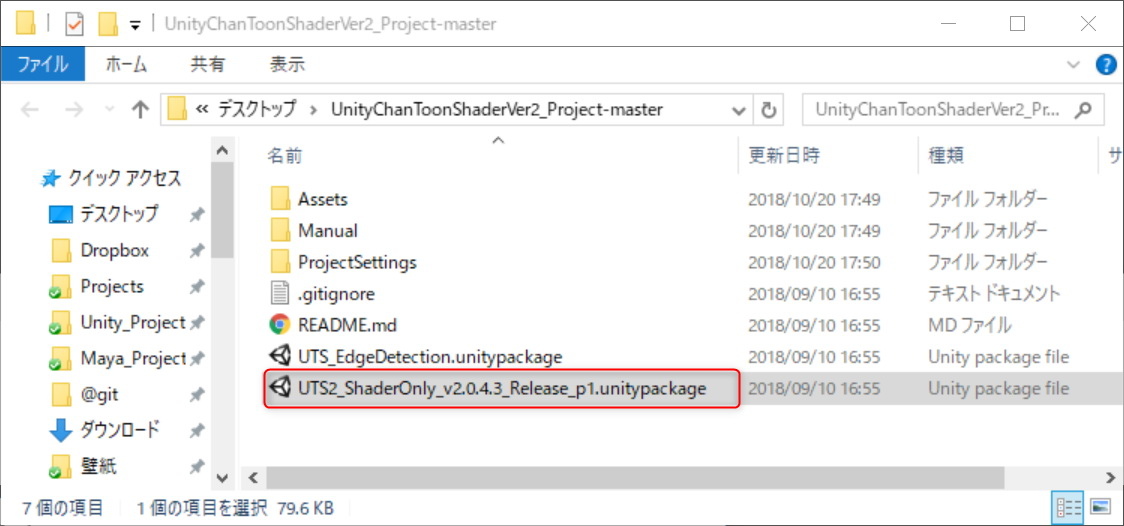
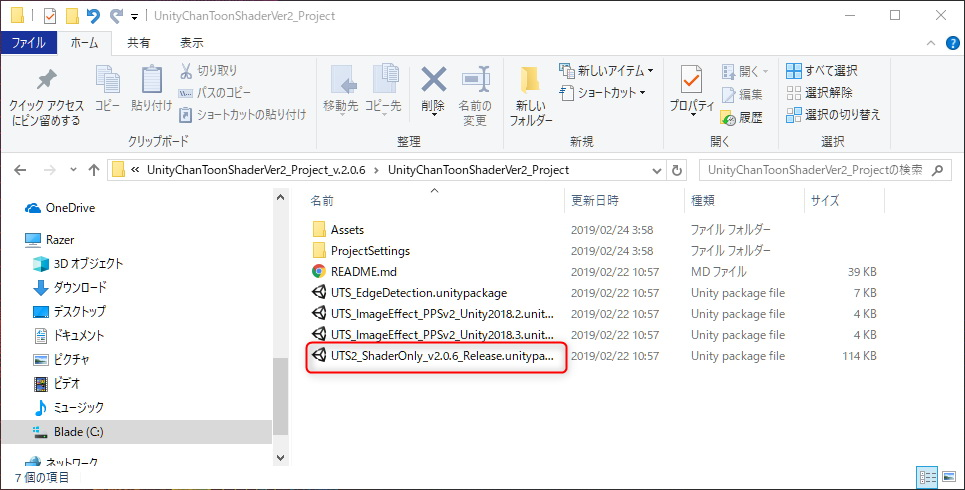
Updated Manual documents.

diff --git a/Manual/UTS2_Manual_en.md b/Manual/UTS2_Manual_en.md
@@ -71,9 +71,9 @@ This package uses a forward rendering environment. Using a linear color space is
 (A gamma color space can also be used, but this tends to strengthen shadow gradiation. For more details, see [Linear or Gamma Workflow](https://docs.unity3d.com/ja/current/Manual/LinearRendering-LinearOrGammaWorkflow.html). )  
 
 ## 【Installation】
-1. Extract the project included with Unity-Chan Toon Shader 2.0  and search directly under the folder for the `UTS_ShaderOnly_v(version name).unitypackage` file.  
+1. Extract the project included with Unity-Chan Toon Shader 2.0  and search directly under the folder for the `UTS2_ShaderOnly_(version name).unitypackage` file.  
 
-   The image below uses version `2.0.4.3_Release_p1`.  
+   The image below uses version `v2.0.6_Release`.  
 
 <img width = "600" src="Images_jpg/Explorer01.jpg">
 
@@ -81,7 +81,7 @@ This package uses a forward rendering environment. Using a linear color space is
 
 3. Open the Assets folder in the Unity Project window.  
 
-4. Drag and drop `UTS_ShaderOnly_v(version name).unitypackage` from the OS’ Explorer or Finder window into the the Assets folder in the Unity Project window.  
+4. Drag and drop `UTS2_ShaderOnly_v(version name).unitypackage` from the OS’ Explorer or Finder window into the the Assets folder in the Unity Project window.  
 
 <img width = "800" src="Images_jpg/DandD01.jpg">
 
